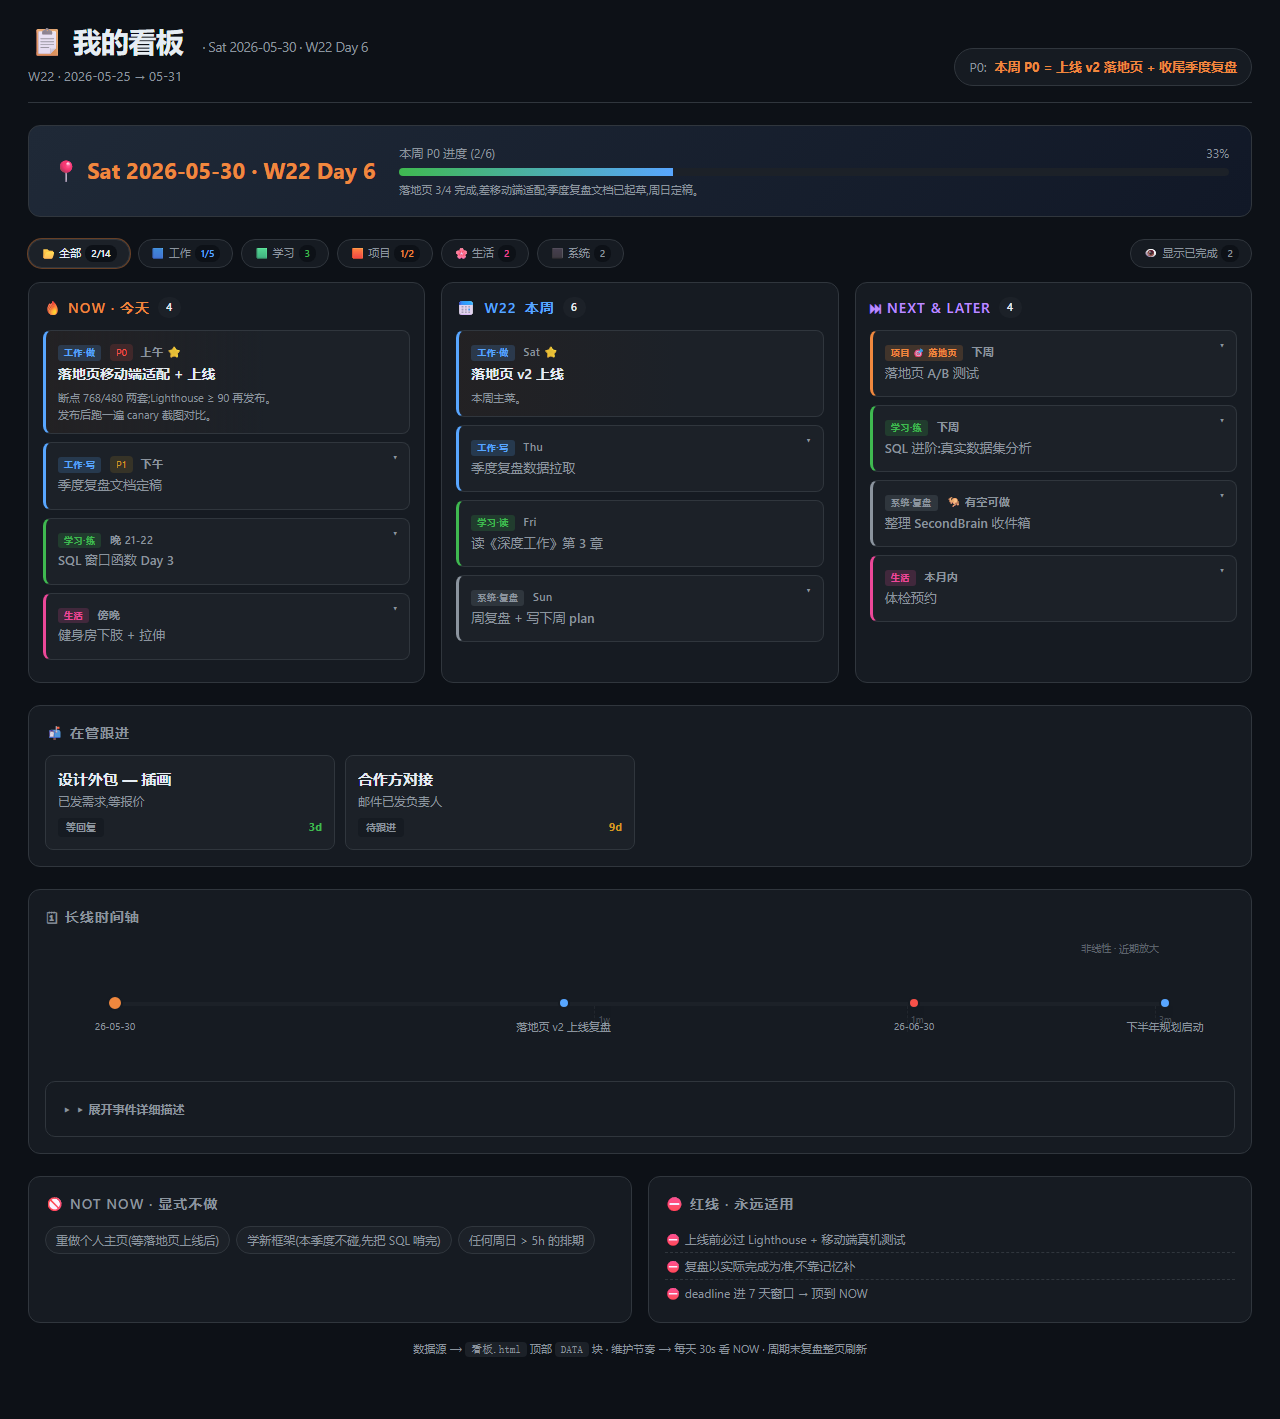
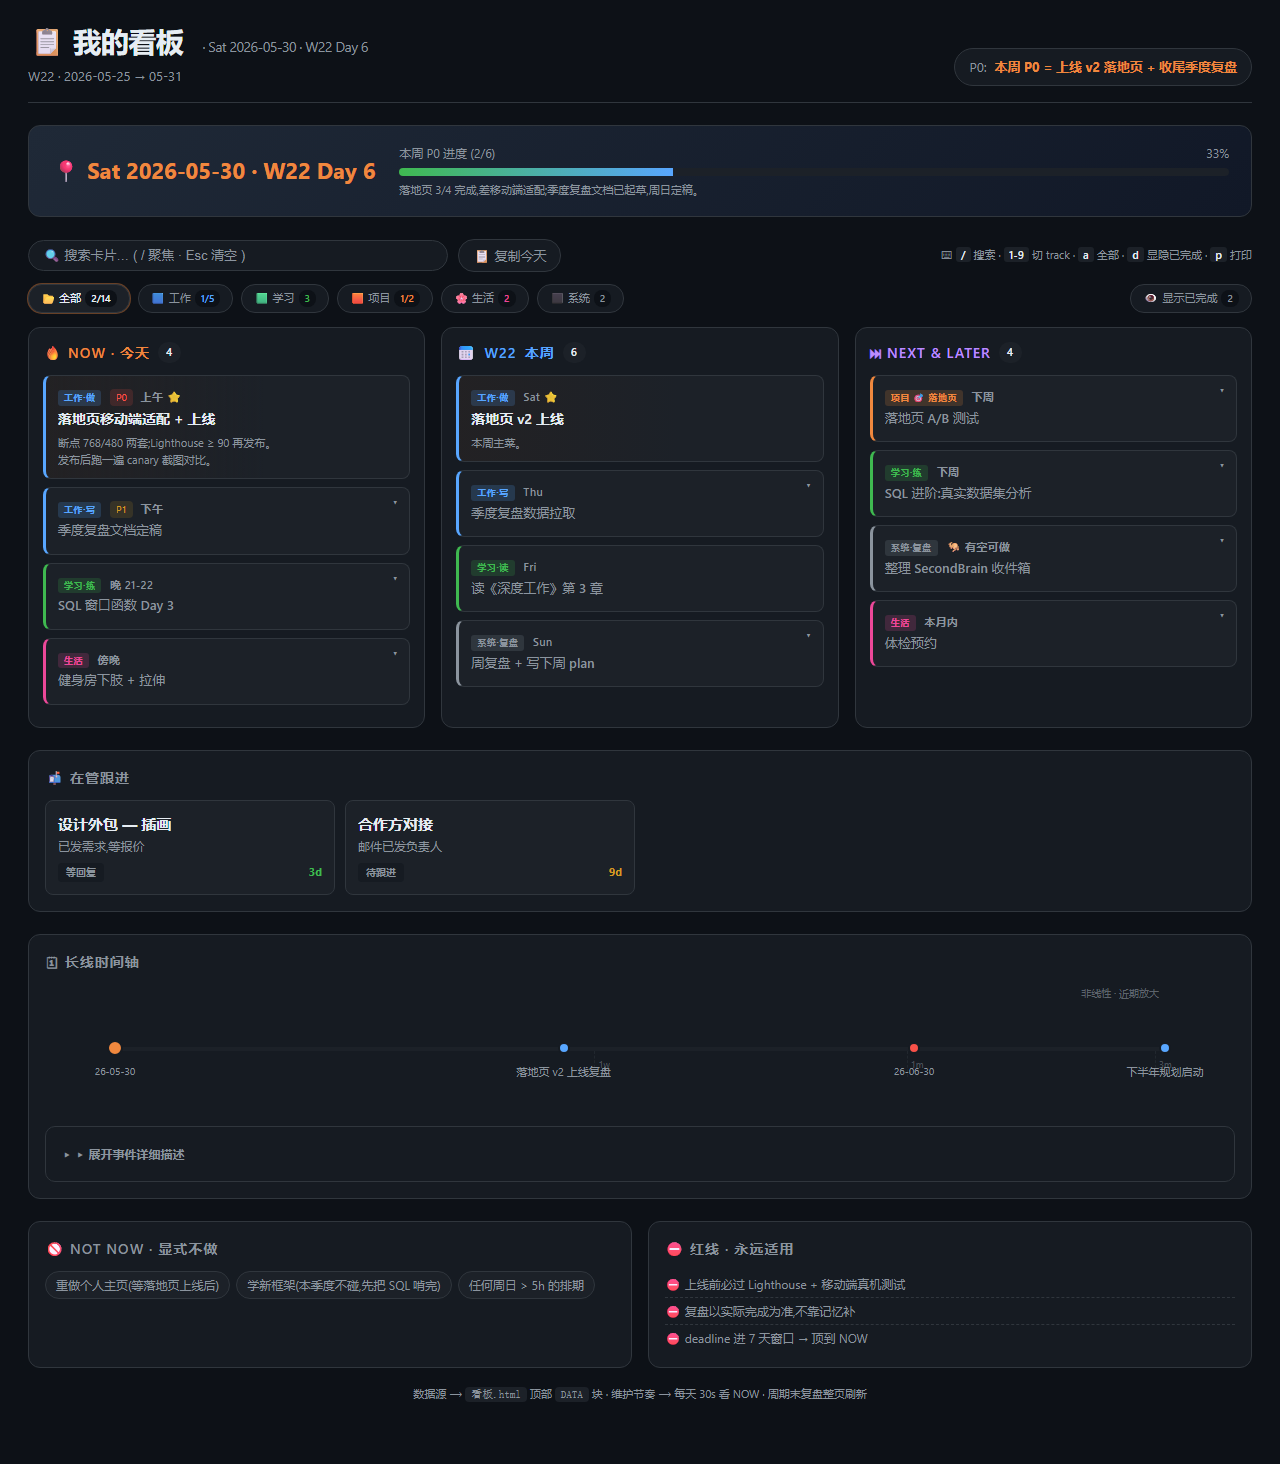
feat: add search, keyboard shortcuts, copy-today, print stylesheet
Viewing/daily-use upgrades to the board template (no data-model impact, zero deps):
- instant search box (live-filter cards, stacks with track filter)
- keyboard shortcuts: / search, 1-9 track filter, a all, d show/hide done, p print, Esc clear
- 复制今天 button: NOW column -> clipboard as plain text
- @media print: clean light-theme PDF (expands all cards, ignores filters)

Updated README features, SKILL.md intro, self-test probes; refreshed preview screenshot.

diff --git a/assets/kanban-template.html b/assets/kanban-template.html
@@ -130,6 +130,36 @@
 
   footer { text-align: center; font-size: 11px; color: var(--muted); padding-top: 18px; }
   footer code { background: var(--bg-card); padding: 2px 6px; border-radius: 4px; }
+
+  /* Toolbar (search + copy + 快捷键提示) */
+  .toolbar { display: flex; gap: 10px; align-items: center; margin-bottom: 12px; flex-wrap: wrap; }
+  #search { flex: 1; min-width: 220px; max-width: 420px; background: var(--bg-elev); border: 1px solid var(--border); color: var(--text); border-radius: 16px; padding: 7px 14px; font-size: 13px; outline: none; }
+  #search:focus { border-color: var(--accent); box-shadow: 0 0 0 1px rgba(240,136,62,0.4); }
+  #search::placeholder { color: var(--muted); }
+  .tool-btn { background: var(--bg-elev); border: 1px solid var(--border); color: var(--muted); border-radius: 16px; padding: 7px 14px; font-size: 13px; cursor: pointer; transition: all 0.15s; }
+  .tool-btn:hover { background: var(--bg-card); color: var(--text); border-color: var(--accent); }
+  .tool-btn.ok { color: var(--green); border-color: var(--green); }
+  .kbd-hint { font-size: 11px; color: var(--muted); margin-left: auto; }
+  .kbd-hint b { color: var(--text); background: var(--bg-card); padding: 0 5px; border-radius: 3px; font-weight: 600; }
+  .search-hidden { display: none !important; }
+  mark { background: rgba(240,136,62,0.35); color: var(--text); border-radius: 2px; padding: 0 1px; }
+  @media (max-width: 760px) { .kbd-hint { display: none; } }
+
+  /* Print → 干净 PDF: 展开全部, 隐藏交互件, 浅底黑字省墨 */
+  @media print {
+    :root { --bg:#fff; --bg-elev:#fff; --bg-card:#fff; --text:#111; --muted:#555; --border:#ccc; }
+    body { padding: 0; max-width: none; }
+    .toolbar, .legend, footer, details summary, .col::-webkit-scrollbar { display: none !important; }
+    .hero { background: #f4f4f4 !important; }
+    .kanban { grid-template-columns: 1fr 1fr 1fr; }
+    .col { max-height: none !important; overflow: visible !important; break-inside: avoid; }
+    .card.has-meta:not(.star) .meta { display: block !important; }   /* 展开全部 meta */
+    .card.has-meta:not(.star)::after { display: none; }
+    body.hide-done .card.done { display: block !important; }          /* 打印含已完成 */
+    .timeline details .tl-detail { display: block !important; }
+    .search-hidden, .filtered-out { display: block !important; }       /* 打印忽略筛选 */
+    * { -webkit-print-color-adjust: exact; print-color-adjust: exact; }
+  }
 </style>
 </head>
 <body>
@@ -218,6 +248,12 @@ const DATA = {
     <div class="progress"><div id="hero-progress-bar"></div></div>
     <div style="font-size: 11px; color: var(--muted); margin-top: 6px;" id="hero-progress-detail"></div>
   </div>
+</div>
+
+<div class="toolbar">
+  <input id="search" type="search" placeholder="🔍 搜索卡片… ( / 聚焦 · Esc 清空 )" autocomplete="off" spellcheck="false">
+  <button id="copy-today" class="tool-btn" title="把 NOW 列复制成纯文本">📋 复制今天</button>
+  <span class="kbd-hint">⌨ <b>/</b> 搜索 · <b>1-9</b> 切 track · <b>a</b> 全部 · <b>d</b> 显隐已完成 · <b>p</b> 打印</span>
 </div>
 
 <div class="legend" id="legend"></div>
@@ -448,6 +484,50 @@ const DATA = {
     const hidden = document.body.classList.toggle('hide-done');
     toggleLabel.textContent = hidden ? '显示已完成' : '隐藏已完成';
     toggleChip.classList.toggle('active', !hidden);
+  });
+
+  // 10. 即时搜索 (独立 .search-hidden, 与 track 筛选叠加, 互不干扰)
+  const searchEl = $("search");
+  const runSearch = (q) => {
+    const needle = q.trim().toLowerCase();
+    document.querySelectorAll('.card, .track-item').forEach(el => {
+      el.classList.toggle('search-hidden', !!needle && !el.textContent.toLowerCase().includes(needle));
+    });
+  };
+  searchEl.addEventListener('input', () => runSearch(searchEl.value));
+
+  // 11. 复制今天 (NOW 列 → 纯文本, 贴进日记/站会)
+  const copyBtn = $("copy-today");
+  copyBtn.addEventListener('click', async () => {
+    const head = `🔥 今天 ${M.periodDayName} ${M.today} · ${M.period} Day ${M.periodDay}\n焦点: ${M.focus}\n`;
+    const lines = DATA.now.map(c => {
+      const mark = `${c.done ? '✅' : '⬜'}${c.star ? ' ⭐' : ''}${c.tag ? ' ' + c.tag : ''}`;
+      return `${mark} [${c.time}] ${c.title}`;
+    });
+    const text = head + '\n' + lines.join('\n');
+    try {
+      await navigator.clipboard.writeText(text);
+      copyBtn.textContent = '✅ 已复制';
+      copyBtn.classList.add('ok');
+    } catch {
+      copyBtn.textContent = '⚠ 复制失败 (手动选)';
+      window.prompt('复制以下文本:', text);
+    }
+    setTimeout(() => { copyBtn.textContent = '📋 复制今天'; copyBtn.classList.remove('ok'); }, 1800);
+  });
+
+  // 12. 键盘快捷键: / 搜索 · 1-9 切 track · a 全部 · d 显隐 done · p 打印 · Esc 清空
+  const filterChips = () => [...document.querySelectorAll('.legend-chip[data-filter]')]; // [0]=全部, [1..]=tracks
+  document.addEventListener('keydown', e => {
+    const typing = document.activeElement === searchEl;
+    if (e.key === 'Escape') { searchEl.value = ''; runSearch(''); searchEl.blur(); return; }
+    if (typing) return;                       // 搜索框内不抢按键 (Esc 除外)
+    if (e.metaKey || e.ctrlKey || e.altKey) return;
+    if (e.key === '/') { e.preventDefault(); searchEl.focus(); return; }
+    if (e.key === 'a' || e.key === '0') { filterChips()[0].click(); return; }
+    if (e.key === 'd') { toggleChip.click(); return; }
+    if (e.key === 'p') { e.preventDefault(); window.print(); return; }
+    if (/^[1-9]$/.test(e.key)) { const c = filterChips()[+e.key]; if (c) c.click(); }
   });
 })();
 </script>

diff --git a/references/self-test.md b/references/self-test.md
@@ -43,13 +43,26 @@ Run this in the page console / `preview_eval`. **All checks must pass:**
   r.doneHiddenByDefault = getComputedStyle(document.querySelector('.card.done')).display === 'none';
   document.getElementById('toggle-done').click();
   r.doneToggleShows   = getComputedStyle(document.querySelector('.card.done')).display !== 'none';
+  // toolbar / search / shortcuts
+  r.toolbar = !!document.getElementById('search') && !!document.getElementById('copy-today');
+  const s = document.getElementById('search');
+  s.value = '健身'; s.dispatchEvent(new Event('input'));
+  r.searchHidesSome = document.querySelectorAll('.card.search-hidden').length > 0;
+  document.dispatchEvent(new KeyboardEvent('keydown', {key:'Escape'}));
+  r.escClears = s.value === '' && document.querySelectorAll('.card.search-hidden').length === 0;
+  document.dispatchEvent(new KeyboardEvent('keydown', {key:'2'}));
+  r.keyFilters = document.querySelector('.legend-chip.active').dataset.filter !== 'all';
+  document.dispatchEvent(new KeyboardEvent('keydown', {key:'a'}));
   return r;
 })()
 ```
 
+(For the search probe to hide something, use a needle present in the demo data, e.g. `健身`. With the
+raw template's placeholder cards, swap in a word that appears there.)
+
 **Expected:** `trackStyle` true · `cardBorder` is a real color (not `rgb(0,0,0)`/transparent) · all
 `*Cards`/`timeline*`/`notNow`/`redlines` true · `filterHidesSome` true · `doneHiddenByDefault` true ·
-`doneToggleShows` true.
+`doneToggleShows` true · `toolbar` true · `searchHidesSome` true · `escClears` true · `keyFilters` true.
 
 ## 3. Console must be clean
 

diff --git a/SKILL.md b/SKILL.md
@@ -21,6 +21,11 @@ block is the single source of truth. 3 columns (🔥 NOW·今天 / 📅 本周 /
 data-driven color tracks, auto progress bar, a non-linear (log-scale) long-range timeline,
 and NOT-NOW + redlines rails. Optional markdown mirror for terminal viewing.
 
+Built-in viewing aids (no data-model impact): instant **search** box, **keyboard shortcuts**
+(`/` search · `1-9` track filter · `a` all · `d` show/hide done · `p` print · `Esc` clear),
+a **复制今天** button (NOW column → clipboard as plain text), and a **print stylesheet**
+(`Ctrl/⌘+P` → clean light-theme PDF that expands all cards and ignores active filters).
+
 **Core idea — edit data, never markup.** All board changes are edits to the `DATA = {...}`
 object at the top of the HTML. The render script below it is generic and never needs touching.
 This keeps every operation a small, safe, diff-able JS-object edit.

diff --git a/README.md b/README.md
@@ -24,6 +24,10 @@ script below it is generic. Features:
 - Auto progress bar (from `week[]` done ratio)
 - Non-linear (log-scale) long-range timeline — near-term magnified
 - Clickable legend filter + show/hide-done toggle
+- **Instant search** box — live-filter cards by text, stacks with the track filter
+- **Keyboard shortcuts** — `/` search · `1-9` switch track · `a` all · `d` show/hide done · `p` print · `Esc` clear
+- **复制今天** button — copy the NOW column as plain text for a daily note / standup
+- **Print stylesheet** — `Ctrl/⌘+P` exports a clean light-theme PDF (expands all cards, ignores filters)
 - NOT-NOW + redlines rails
 - Optional: generic "in-flight tracking" table, markdown mirror, custom modules, sub-pages
 - Dark GitHub theme, zero dependencies, opens by double-click
